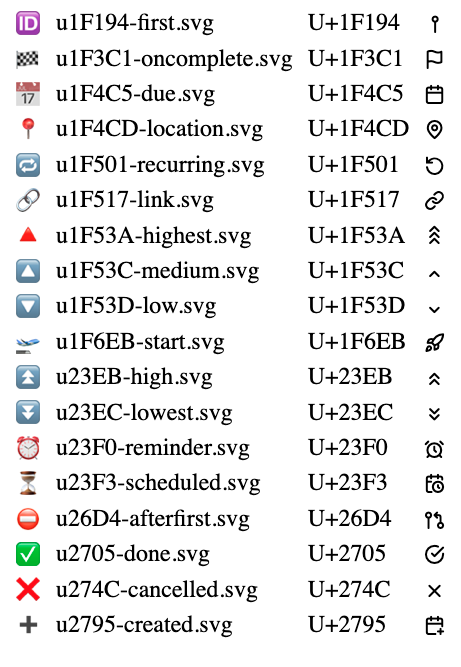
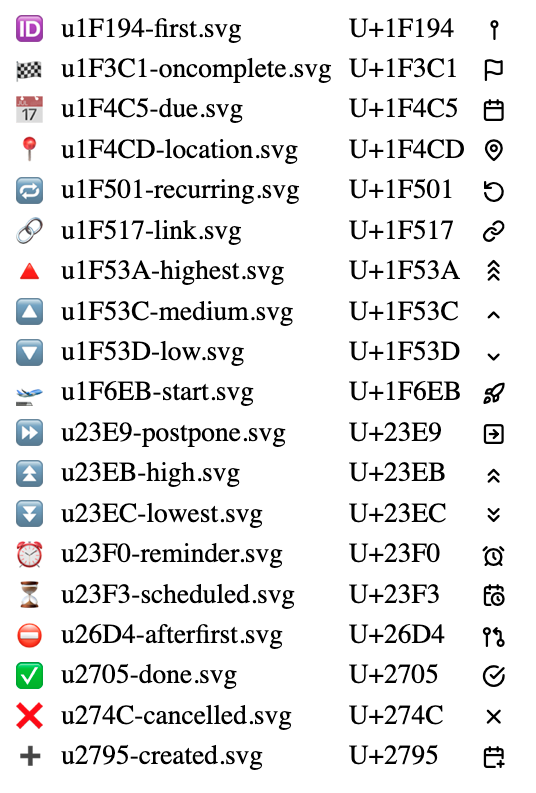
Add postpone emoji to lucide sets

Changed region(s): [[0.1215, 0.0, 0.9718, 0.9895], [0.0304, 0.0, 0.0911, 0.9595], [0.9111, 0.3898, 0.9414, 0.4198]]

diff --git a/TasksMonoEmojis-lucide/TasksMonoEmojis-lucide.html b/TasksMonoEmojis-lucide/TasksMonoEmojis-lucide.html
@@ -11,9 +11,9 @@ THE SOFTWARE IS PROVIDED "AS IS" AND THE AUTHOR DISCLAIMS ALL WARRANTIES WITH RE
 */
 @font-face {
     font-family: 'TasksMonoEmojis';
[1 lines of base64/hex data omitted]
-    unicode-range: U+1F194, U+1F3C1, U+1F4C5, U+1F4CD, U+1F501, U+1F517, U+1F53A, U+1F53C, U+1F53D, U+1F6EB, U+23EB, U+23EC, U+23F0, U+23F3, U+26D4, U+2705, U+274C, U+2795;
-    /* 🆔, 🏁, 📅, 📍, 🔁, 🔗, 🔺, 🔼, 🔽, 🛫, ⏫, ⏬, ⏰, ⏳, ⛔, ✅, ❌, ➕ */
[1 lines of base64/hex data omitted]
+    unicode-range: U+1F194, U+1F3C1, U+1F4C5, U+1F4CD, U+1F501, U+1F517, U+1F53A, U+1F53C, U+1F53D, U+1F6EB, U+23E9, U+23EB, U+23EC, U+23F0, U+23F3, U+26D4, U+2705, U+274C, U+2795;
+    /* 🆔, 🏁, 📅, 📍, 🔁, 🔗, 🔺, 🔼, 🔽, 🛫, ⏩, ⏫, ⏬, ⏰, ⏳, ⛔, ✅, ❌, ➕ */
     /*! Generator: obsidian-tasks-custom-icons v1.0.3 https://github.com/replete/obsidian-tasks-custom-icons */
 }
 
@@ -21,4 +21,4 @@ tr td:last-child {font-family: 'TasksMonoEmojis', sans-serif; text-align:center}
 td {padding:0 4px;}
 </style>
 <table><tbody>
-<tr><td>🆔</td><td>u1F194-first.svg</td><td>U+1F194</td><td>🆔</td></tr><tr><td>🏁</td><td>u1F3C1-oncomplete.svg</td><td>U+1F3C1</td><td>🏁</td></tr><tr><td>📅</td><td>u1F4C5-due.svg</td><td>U+1F4C5</td><td>📅</td></tr><tr><td>📍</td><td>u1F4CD-location.svg</td><td>U+1F4CD</td><td>📍</td></tr><tr><td>🔁</td><td>u1F501-recurring.svg</td><td>U+1F501</td><td>🔁</td></tr><tr><td>🔗</td><td>u1F517-link.svg</td><td>U+1F517</td><td>🔗</td></tr><tr><td>🔺</td><td>u1F53A-highest.svg</td><td>U+1F53A</td><td>🔺</td></tr><tr><td>🔼</td><td>u1F53C-medium.svg</td><td>U+1F53C</td><td>🔼</td></tr><tr><td>🔽</td><td>u1F53D-low.svg</td><td>U+1F53D</td><td>🔽</td></tr><tr><td>🛫</td><td>u1F6EB-start.svg</td><td>U+1F6EB</td><td>🛫</td></tr><tr><td>⏫</td><td>u23EB-high.svg</td><td>U+23EB</td><td>⏫</td></tr><tr><td>⏬</td><td>u23EC-lowest.svg</td><td>U+23EC</td><td>⏬</td></tr><tr><td>⏰</td><td>u23F0-reminder.svg</td><td>U+23F0</td><td>⏰</td></tr><tr><td>⏳</td><td>u23F3-scheduled.svg</td><td>U+23F3</td><td>⏳</td></tr><tr><td>⛔</td><td>u26D4-afterfirst.svg</td><td>U+26D4</td><td>⛔</td></tr><tr><td>✅</td><td>u2705-done.svg</td><td>U+2705</td><td>✅</td></tr><tr><td>❌</td><td>u274C-cancelled.svg</td><td>U+274C</td><td>❌</td></tr><tr><td>➕</td><td>u2795-created.svg</td><td>U+2795</td><td>➕</td></tr></tbody></table>
+<tr><td>🆔</td><td>u1F194-first.svg</td><td>U+1F194</td><td>🆔</td></tr><tr><td>🏁</td><td>u1F3C1-oncomplete.svg</td><td>U+1F3C1</td><td>🏁</td></tr><tr><td>📅</td><td>u1F4C5-due.svg</td><td>U+1F4C5</td><td>📅</td></tr><tr><td>📍</td><td>u1F4CD-location.svg</td><td>U+1F4CD</td><td>📍</td></tr><tr><td>🔁</td><td>u1F501-recurring.svg</td><td>U+1F501</td><td>🔁</td></tr><tr><td>🔗</td><td>u1F517-link.svg</td><td>U+1F517</td><td>🔗</td></tr><tr><td>🔺</td><td>u1F53A-highest.svg</td><td>U+1F53A</td><td>🔺</td></tr><tr><td>🔼</td><td>u1F53C-medium.svg</td><td>U+1F53C</td><td>🔼</td></tr><tr><td>🔽</td><td>u1F53D-low.svg</td><td>U+1F53D</td><td>🔽</td></tr><tr><td>🛫</td><td>u1F6EB-start.svg</td><td>U+1F6EB</td><td>🛫</td></tr><tr><td>⏩</td><td>u23E9-postpone.svg</td><td>U+23E9</td><td>⏩</td></tr><tr><td>⏫</td><td>u23EB-high.svg</td><td>U+23EB</td><td>⏫</td></tr><tr><td>⏬</td><td>u23EC-lowest.svg</td><td>U+23EC</td><td>⏬</td></tr><tr><td>⏰</td><td>u23F0-reminder.svg</td><td>U+23F0</td><td>⏰</td></tr><tr><td>⏳</td><td>u23F3-scheduled.svg</td><td>U+23F3</td><td>⏳</td></tr><tr><td>⛔</td><td>u26D4-afterfirst.svg</td><td>U+26D4</td><td>⛔</td></tr><tr><td>✅</td><td>u2705-done.svg</td><td>U+2705</td><td>✅</td></tr><tr><td>❌</td><td>u274C-cancelled.svg</td><td>U+274C</td><td>❌</td></tr><tr><td>➕</td><td>u2795-created.svg</td><td>U+2795</td><td>➕</td></tr></tbody></table>

diff --git a/TasksMonoEmojis-lucide2/TasksMonoEmojis-lucide2.html b/TasksMonoEmojis-lucide2/TasksMonoEmojis-lucide2.html
@@ -11,9 +11,9 @@ THE SOFTWARE IS PROVIDED "AS IS" AND THE AUTHOR DISCLAIMS ALL WARRANTIES WITH RE
 */
 @font-face {
     font-family: 'TasksMonoEmojis';
[1 lines of base64/hex data omitted]
-    unicode-range: U+1F194, U+1F3C1, U+1F4C5, U+1F4CD, U+1F501, U+1F517, U+1F53A, U+1F53C, U+1F53D, U+1F6EB, U+23EB, U+23EC, U+23F0, U+23F3, U+26D4, U+2705, U+274C, U+2795;
-    /* 🆔, 🏁, 📅, 📍, 🔁, 🔗, 🔺, 🔼, 🔽, 🛫, ⏫, ⏬, ⏰, ⏳, ⛔, ✅, ❌, ➕ */
[1 lines of base64/hex data omitted]
+    unicode-range: U+1F194, U+1F3C1, U+1F4C5, U+1F4CD, U+1F501, U+1F517, U+1F53A, U+1F53C, U+1F53D, U+1F6EB, U+23E9, U+23EB, U+23EC, U+23F0, U+23F3, U+26D4, U+2705, U+274C, U+2795;
+    /* 🆔, 🏁, 📅, 📍, 🔁, 🔗, 🔺, 🔼, 🔽, 🛫, ⏩, ⏫, ⏬, ⏰, ⏳, ⛔, ✅, ❌, ➕ */
     /*! Generator: obsidian-tasks-custom-icons v1.0.3 https://github.com/replete/obsidian-tasks-custom-icons */
 }
 
@@ -21,4 +21,4 @@ tr td:last-child {font-family: 'TasksMonoEmojis', sans-serif; text-align:center}
 td {padding:0 4px;}
 </style>
 <table><tbody>
-<tr><td>🆔</td><td>u1F194-first.svg</td><td>U+1F194</td><td>🆔</td></tr><tr><td>🏁</td><td>u1F3C1-oncomplete.svg</td><td>U+1F3C1</td><td>🏁</td></tr><tr><td>📅</td><td>u1F4C5-due.svg</td><td>U+1F4C5</td><td>📅</td></tr><tr><td>📍</td><td>u1F4CD-location.svg</td><td>U+1F4CD</td><td>📍</td></tr><tr><td>🔁</td><td>u1F501-recurring.svg</td><td>U+1F501</td><td>🔁</td></tr><tr><td>🔗</td><td>u1F517-link.svg</td><td>U+1F517</td><td>🔗</td></tr><tr><td>🔺</td><td>u1F53A-highest.svg</td><td>U+1F53A</td><td>🔺</td></tr><tr><td>🔼</td><td>u1F53C-medium.svg</td><td>U+1F53C</td><td>🔼</td></tr><tr><td>🔽</td><td>u1F53D-low.svg</td><td>U+1F53D</td><td>🔽</td></tr><tr><td>🛫</td><td>u1F6EB-start.svg</td><td>U+1F6EB</td><td>🛫</td></tr><tr><td>⏫</td><td>u23EB-high.svg</td><td>U+23EB</td><td>⏫</td></tr><tr><td>⏬</td><td>u23EC-lowest.svg</td><td>U+23EC</td><td>⏬</td></tr><tr><td>⏰</td><td>u23F0-reminder.svg</td><td>U+23F0</td><td>⏰</td></tr><tr><td>⏳</td><td>u23F3-scheduled.svg</td><td>U+23F3</td><td>⏳</td></tr><tr><td>⛔</td><td>u26D4-afterfirst.svg</td><td>U+26D4</td><td>⛔</td></tr><tr><td>✅</td><td>u2705-done.svg</td><td>U+2705</td><td>✅</td></tr><tr><td>❌</td><td>u274C-cancelled.svg</td><td>U+274C</td><td>❌</td></tr><tr><td>➕</td><td>u2795-created.svg</td><td>U+2795</td><td>➕</td></tr></tbody></table>
+<tr><td>🆔</td><td>u1F194-first.svg</td><td>U+1F194</td><td>🆔</td></tr><tr><td>🏁</td><td>u1F3C1-oncomplete.svg</td><td>U+1F3C1</td><td>🏁</td></tr><tr><td>📅</td><td>u1F4C5-due.svg</td><td>U+1F4C5</td><td>📅</td></tr><tr><td>📍</td><td>u1F4CD-location.svg</td><td>U+1F4CD</td><td>📍</td></tr><tr><td>🔁</td><td>u1F501-recurring.svg</td><td>U+1F501</td><td>🔁</td></tr><tr><td>🔗</td><td>u1F517-link.svg</td><td>U+1F517</td><td>🔗</td></tr><tr><td>🔺</td><td>u1F53A-highest.svg</td><td>U+1F53A</td><td>🔺</td></tr><tr><td>🔼</td><td>u1F53C-medium.svg</td><td>U+1F53C</td><td>🔼</td></tr><tr><td>🔽</td><td>u1F53D-low.svg</td><td>U+1F53D</td><td>🔽</td></tr><tr><td>🛫</td><td>u1F6EB-start.svg</td><td>U+1F6EB</td><td>🛫</td></tr><tr><td>⏩</td><td>u23E9-postpone.svg</td><td>U+23E9</td><td>⏩</td></tr><tr><td>⏫</td><td>u23EB-high.svg</td><td>U+23EB</td><td>⏫</td></tr><tr><td>⏬</td><td>u23EC-lowest.svg</td><td>U+23EC</td><td>⏬</td></tr><tr><td>⏰</td><td>u23F0-reminder.svg</td><td>U+23F0</td><td>⏰</td></tr><tr><td>⏳</td><td>u23F3-scheduled.svg</td><td>U+23F3</td><td>⏳</td></tr><tr><td>⛔</td><td>u26D4-afterfirst.svg</td><td>U+26D4</td><td>⛔</td></tr><tr><td>✅</td><td>u2705-done.svg</td><td>U+2705</td><td>✅</td></tr><tr><td>❌</td><td>u274C-cancelled.svg</td><td>U+274C</td><td>❌</td></tr><tr><td>➕</td><td>u2795-created.svg</td><td>U+2795</td><td>➕</td></tr></tbody></table>

diff --git a/TasksMonoEmojis-lucide/TasksMonoEmojis-lucide.css b/TasksMonoEmojis-lucide/TasksMonoEmojis-lucide.css
@@ -9,9 +9,9 @@ THE SOFTWARE IS PROVIDED "AS IS" AND THE AUTHOR DISCLAIMS ALL WARRANTIES WITH RE
 */
 @font-face {
     font-family: 'TasksMonoEmojis';
[1 lines of base64/hex data omitted]
-    unicode-range: U+1F194, U+1F3C1, U+1F4C5, U+1F4CD, U+1F501, U+1F517, U+1F53A, U+1F53C, U+1F53D, U+1F6EB, U+23EB, U+23EC, U+23F0, U+23F3, U+26D4, U+2705, U+274C, U+2795;
-    /* 🆔, 🏁, 📅, 📍, 🔁, 🔗, 🔺, 🔼, 🔽, 🛫, ⏫, ⏬, ⏰, ⏳, ⛔, ✅, ❌, ➕ */
[1 lines of base64/hex data omitted]
+    unicode-range: U+1F194, U+1F3C1, U+1F4C5, U+1F4CD, U+1F501, U+1F517, U+1F53A, U+1F53C, U+1F53D, U+1F6EB, U+23E9, U+23EB, U+23EC, U+23F0, U+23F3, U+26D4, U+2705, U+274C, U+2795;
+    /* 🆔, 🏁, 📅, 📍, 🔁, 🔗, 🔺, 🔼, 🔽, 🛫, ⏩, ⏫, ⏬, ⏰, ⏳, ⛔, ✅, ❌, ➕ */
     /*! Generator: obsidian-tasks-custom-icons v1.0.3 https://github.com/replete/obsidian-tasks-custom-icons */
 }
 

diff --git a/TasksMonoEmojis-lucide2/TasksMonoEmojis-lucide2.css b/TasksMonoEmojis-lucide2/TasksMonoEmojis-lucide2.css
@@ -9,9 +9,9 @@ THE SOFTWARE IS PROVIDED "AS IS" AND THE AUTHOR DISCLAIMS ALL WARRANTIES WITH RE
 */
 @font-face {
     font-family: 'TasksMonoEmojis';
[1 lines of base64/hex data omitted]
-    unicode-range: U+1F194, U+1F3C1, U+1F4C5, U+1F4CD, U+1F501, U+1F517, U+1F53A, U+1F53C, U+1F53D, U+1F6EB, U+23EB, U+23EC, U+23F0, U+23F3, U+26D4, U+2705, U+274C, U+2795;
-    /* 🆔, 🏁, 📅, 📍, 🔁, 🔗, 🔺, 🔼, 🔽, 🛫, ⏫, ⏬, ⏰, ⏳, ⛔, ✅, ❌, ➕ */
[1 lines of base64/hex data omitted]
+    unicode-range: U+1F194, U+1F3C1, U+1F4C5, U+1F4CD, U+1F501, U+1F517, U+1F53A, U+1F53C, U+1F53D, U+1F6EB, U+23E9, U+23EB, U+23EC, U+23F0, U+23F3, U+26D4, U+2705, U+274C, U+2795;
+    /* 🆔, 🏁, 📅, 📍, 🔁, 🔗, 🔺, 🔼, 🔽, 🛫, ⏩, ⏫, ⏬, ⏰, ⏳, ⛔, ✅, ❌, ➕ */
     /*! Generator: obsidian-tasks-custom-icons v1.0.3 https://github.com/replete/obsidian-tasks-custom-icons */
 }
 
